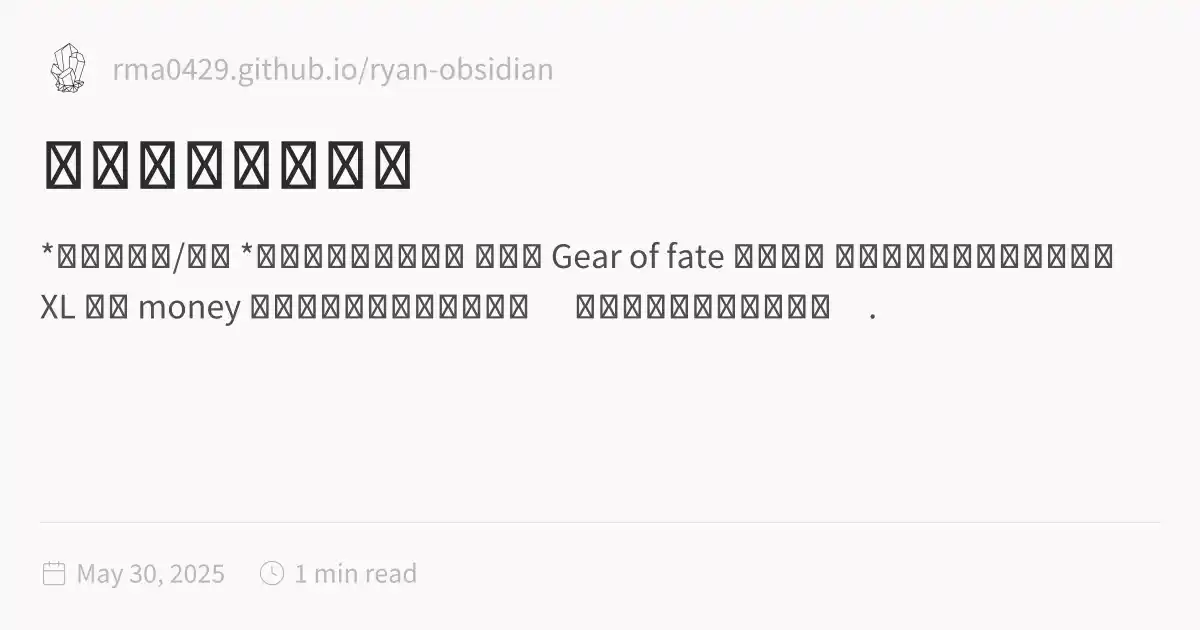
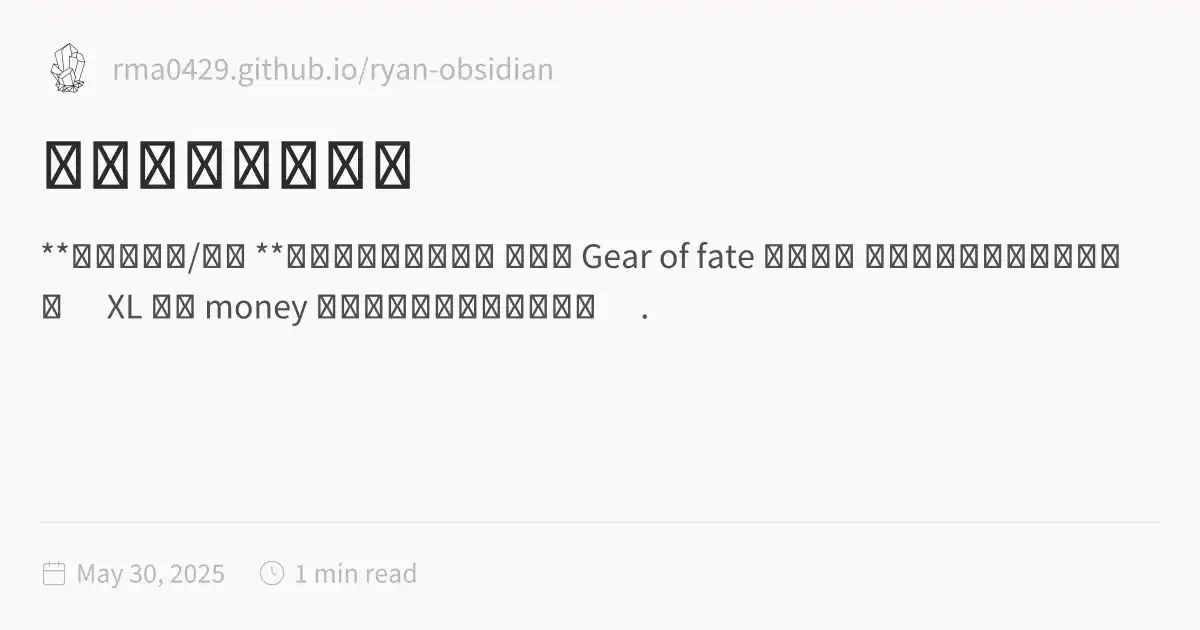
Deploy updated site

Changed region(s): [[0.0308, 0.3619, 0.9558, 0.5127]]

diff --git a/樂利錄音室作品集.html b/樂利錄音室作品集.html
@@ -1,5 +1,5 @@
 <!DOCTYPE html>
-<html lang="en"><head><title>樂利錄音室作品集</title><meta charset="utf-8"/><link rel="preconnect" href="https://fonts.googleapis.com"/><link rel="preconnect" href="https://fonts.gstatic.com"/><link rel="stylesheet" href="https://fonts.googleapis.com/css2?family=Schibsted Grotesk:wght@400;700&amp;family=Source Sans Pro:ital,wght@0,400;0,600;1,400;1,600&amp;family=IBM Plex Mono:wght@400;600&amp;display=swap"/><link rel="preconnect" href="https://cdnjs.cloudflare.com" crossorigin="anonymous"/><meta name="viewport" content="width=device-width, initial-scale=1.0"/><meta name="og:site_name" content="Ryan-Obsidian"/><meta property="og:title" content="樂利錄音室作品集"/><meta property="og:type" content="website"/><meta name="twitter:card" content="summary_large_image"/><meta name="twitter:title" content="樂利錄音室作品集"/><meta name="twitter:description" content="*已發行專輯/單曲 *已發行影視遊戲配樂 交響樂 Gear of fate 命運齒輪 您的瀏覽器不支援音頻播放。 XL 中性 money 您的瀏覽器不支援音頻播放。 這是筆記的另一部分內容。."/><meta property="og:description" content="*已發行專輯/單曲 *已發行影視遊戲配樂 交響樂 Gear of fate 命運齒輪 您的瀏覽器不支援音頻播放。 XL 中性 money 您的瀏覽器不支援音頻播放。 這是筆記的另一部分內容。."/><meta property="og:image:alt" content="*已發行專輯/單曲 *已發行影視遊戲配樂 交響樂 Gear of fate 命運齒輪 您的瀏覽器不支援音頻播放。 XL 中性 money 您的瀏覽器不支援音頻播放。 這是筆記的另一部分內容。."/><meta property="twitter:domain" content="rma0429.github.io/ryan-obsidian"/><meta property="og:url" content="https://rma0429.github.io/ryan-obsidian/樂利錄音室作品集"/><meta property="twitter:url" content="https://rma0429.github.io/ryan-obsidian/樂利錄音室作品集"/><link rel="icon" href="./static/icon.png"/><meta name="description" content="*已發行專輯/單曲 *已發行影視遊戲配樂 交響樂 Gear of fate 命運齒輪 您的瀏覽器不支援音頻播放。 XL 中性 money 您的瀏覽器不支援音頻播放。 這是筆記的另一部分內容。."/><meta name="generator" content="Quartz"/><link href="./index.css" rel="stylesheet" type="text/css" spa-preserve/><style>.expand-button {
+<html lang="en"><head><title>樂利錄音室作品集</title><meta charset="utf-8"/><link rel="preconnect" href="https://fonts.googleapis.com"/><link rel="preconnect" href="https://fonts.gstatic.com"/><link rel="stylesheet" href="https://fonts.googleapis.com/css2?family=Schibsted Grotesk:wght@400;700&amp;family=Source Sans Pro:ital,wght@0,400;0,600;1,400;1,600&amp;family=IBM Plex Mono:wght@400;600&amp;display=swap"/><link rel="preconnect" href="https://cdnjs.cloudflare.com" crossorigin="anonymous"/><meta name="viewport" content="width=device-width, initial-scale=1.0"/><meta name="og:site_name" content="Ryan-Obsidian"/><meta property="og:title" content="樂利錄音室作品集"/><meta property="og:type" content="website"/><meta name="twitter:card" content="summary_large_image"/><meta name="twitter:title" content="樂利錄音室作品集"/><meta name="twitter:description" content="**已發行專輯/單曲 **已發行影視遊戲配樂 交響樂 Gear of fate 命運齒輪 您的瀏覽器不支援音頻播放。 XL 中性 money 您的瀏覽器不支援音頻播放。 ."/><meta property="og:description" content="**已發行專輯/單曲 **已發行影視遊戲配樂 交響樂 Gear of fate 命運齒輪 您的瀏覽器不支援音頻播放。 XL 中性 money 您的瀏覽器不支援音頻播放。 ."/><meta property="og:image:alt" content="**已發行專輯/單曲 **已發行影視遊戲配樂 交響樂 Gear of fate 命運齒輪 您的瀏覽器不支援音頻播放。 XL 中性 money 您的瀏覽器不支援音頻播放。 ."/><meta property="twitter:domain" content="rma0429.github.io/ryan-obsidian"/><meta property="og:url" content="https://rma0429.github.io/ryan-obsidian/樂利錄音室作品集"/><meta property="twitter:url" content="https://rma0429.github.io/ryan-obsidian/樂利錄音室作品集"/><link rel="icon" href="./static/icon.png"/><meta name="description" content="**已發行專輯/單曲 **已發行影視遊戲配樂 交響樂 Gear of fate 命運齒輪 您的瀏覽器不支援音頻播放。 XL 中性 money 您的瀏覽器不支援音頻播放。 ."/><meta name="generator" content="Quartz"/><link href="./index.css" rel="stylesheet" type="text/css" spa-preserve/><style>.expand-button {
   position: absolute;
   display: flex;
   float: right;
@@ -116,20 +116,19 @@ pre:hover > .expand-button {
   padding: 0 12px;
   font-size: 14px;
 }
[1 lines of base64/hex data omitted]
-<p>*已發行影視遊戲配樂</p>
[1 lines of base64/hex data omitted]
+<p>**已發行影視遊戲配樂</p>
 <p>交響樂
 Gear of fate 命運齒輪
 <audio controls>
-<source src="./audio/Gear of fate.mp3" type="audio/mpeg"/>
+<source src="audio/Gear of fate.mp3" type="audio/mpeg"/>
 您的瀏覽器不支援音頻播放。
 </audio></p>
 <p>XL 中性 money
 <audio controls>
-<source src="./audio/XL Money.mp3" type="audio/mpeg"/>
+<source src="audio/XL Money.mp3" type="audio/mpeg"/>
 您的瀏覽器不支援音頻播放。
-</audio>
-這是筆記的另一部分內容。</p></article><hr/><div class="page-footer"></div></div><div class="right sidebar"><div class="graph"><h3>Graph View</h3><div class="graph-outer"><div class="graph-container" data-cfg="{&quot;drag&quot;:true,&quot;zoom&quot;:true,&quot;depth&quot;:1,&quot;scale&quot;:1.1,&quot;repelForce&quot;:0.5,&quot;centerForce&quot;:0.3,&quot;linkDistance&quot;:30,&quot;fontSize&quot;:0.6,&quot;opacityScale&quot;:1,&quot;showTags&quot;:true,&quot;removeTags&quot;:[],&quot;focusOnHover&quot;:false,&quot;enableRadial&quot;:false}"></div><button class="global-graph-icon" aria-label="Global Graph"><svg version="1.1" xmlns="http://www.w3.org/2000/svg" xmlns:xlink="http://www.w3.org/1999/xlink" x="0px" y="0px" viewBox="0 0 55 55" fill="currentColor" xml:space="preserve"><path d="M49,0c-3.309,0-6,2.691-6,6c0,1.035,0.263,2.009,0.726,2.86l-9.829,9.829C32.542,17.634,30.846,17,29,17
+</audio></p></article><hr/><div class="page-footer"></div></div><div class="right sidebar"><div class="graph"><h3>Graph View</h3><div class="graph-outer"><div class="graph-container" data-cfg="{&quot;drag&quot;:true,&quot;zoom&quot;:true,&quot;depth&quot;:1,&quot;scale&quot;:1.1,&quot;repelForce&quot;:0.5,&quot;centerForce&quot;:0.3,&quot;linkDistance&quot;:30,&quot;fontSize&quot;:0.6,&quot;opacityScale&quot;:1,&quot;showTags&quot;:true,&quot;removeTags&quot;:[],&quot;focusOnHover&quot;:false,&quot;enableRadial&quot;:false}"></div><button class="global-graph-icon" aria-label="Global Graph"><svg version="1.1" xmlns="http://www.w3.org/2000/svg" xmlns:xlink="http://www.w3.org/1999/xlink" x="0px" y="0px" viewBox="0 0 55 55" fill="currentColor" xml:space="preserve"><path d="M49,0c-3.309,0-6,2.691-6,6c0,1.035,0.263,2.009,0.726,2.86l-9.829,9.829C32.542,17.634,30.846,17,29,17
                 s-3.542,0.634-4.898,1.688l-7.669-7.669C16.785,10.424,17,9.74,17,9c0-2.206-1.794-4-4-4S9,6.794,9,9s1.794,4,4,4
                 c0.74,0,1.424-0.215,2.019-0.567l7.669,7.669C21.634,21.458,21,23.154,21,25s0.634,3.542,1.688,4.897L10.024,42.562
                 C8.958,41.595,7.549,41,6,41c-3.309,0-6,2.691-6,6s2.691,6,6,6s6-2.691,6-6c0-1.035-0.263-2.009-0.726-2.86l12.829-12.829
